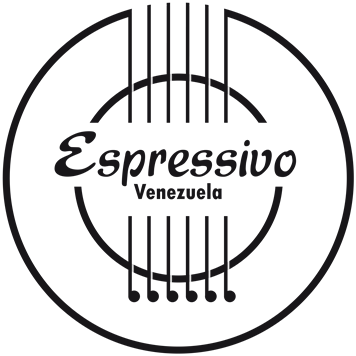
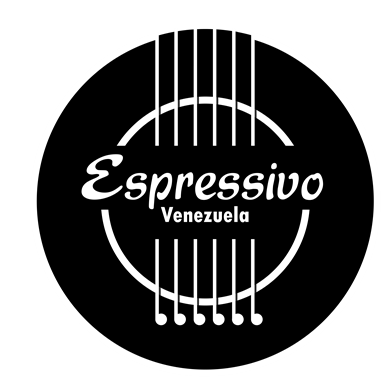
Unify event attendance and issue Espressivo QR codes

diff --git a/sistema-central/src/server.js b/sistema-central/src/server.js
@@ -530,7 +530,7 @@ app.post('/api/admin/orders/:id/reject', async (req, res) => {
 app.get('/api/admin/verify-qr/:rawToken', (req, res) => {
   try {
     let token = decodeURIComponent(req.params.rawToken || '').trim();
-    // If scanned QR is a full URL like http://.../verify/TK-001-..., extract the token part
+    // Extract the token from full QR links as well as from manually entered codes.
     if (token.includes('/verify/')) {
       token = token.split('/verify/').pop().split('?')[0].split('#')[0].trim();
     } else if (token.includes('verifyToken=')) {
@@ -570,7 +570,7 @@ app.get('/api/admin/verify-qr/:rawToken', (req, res) => {
 });
 
 /**
- * Record attendance for an activity using the full-event ticket.
+ * Record one arrival for the entire event.
  */
 app.post('/api/admin/verify-qr/:rawToken/checkin', (req, res) => {
   try {
@@ -579,40 +579,25 @@ app.post('/api/admin/verify-qr/:rawToken/checkin', (req, res) => {
       token = token.split('/verify/').pop().split('?')[0].split('#')[0].trim();
     }
 
-    const { stage } = req.body;
-    if (!['conference', 'concert'].includes(stage)) return res.status(400).json({ok:false, message:'Etapa invalida'}); // 'conference' or 'concert'
-    const order = db.prepare('SELECT * FROM orders WHERE verification_token = ? AND status = \'APPROVED\'').get(token);
-    if (!order) {
-      return res.status(404).json({ ok: false, message: 'Token QR no válido.' });
+    const updated = db.prepare(`
+      UPDATE orders SET checked_in_at = datetime('now')
+      WHERE verification_token = ? AND status = 'APPROVED'
+        AND checked_in_at IS NULL
+        AND COALESCE(checked_in_conference, 0) = 0
+        AND COALESCE(checked_in_concert, 0) = 0
+      RETURNING *
+    `).get(token);
+    if (!updated) {
+      const order = db.prepare("SELECT * FROM orders WHERE verification_token = ? AND status = 'APPROVED'").get(token);
+      if (!order) return res.status(404).json({ ok: false, message: 'Token QR no válido.' });
+      return res.status(409).json({
+        ok: false,
+        alreadyCheckedIn: true,
+        message: `La asistencia para la entrada #${order.ticket_number} ya está registrada.`,
+        order
+      });
     }
 
-    if (stage === 'concert') {
-      if (order.checked_in_concert) {
-        return res.status(409).json({
-          ok: false,
-          alreadyCheckedIn: true,
-          message: `La asistencia al concierto para la entrada #${order.ticket_number} ya se registró a las ${order.checked_in_concert_at}.`,
-          order
-        });
-      }
-      db.prepare(`
-        UPDATE orders SET checked_in_concert = 1, checked_in_concert_at = datetime('now') WHERE id = ?
-      `).run(order.id);
-    } else {
-      if (order.checked_in_conference) {
-        return res.status(409).json({
-          ok: false,
-          alreadyCheckedIn: true,
-          message: `La asistencia a conferencias para la entrada #${order.ticket_number} ya se registró a las ${order.checked_in_conference_at}.`,
-          order
-        });
-      }
-      db.prepare(`
-        UPDATE orders SET checked_in_conference = 1, checked_in_conference_at = datetime('now') WHERE id = ?
-      `).run(order.id);
-    }
-
-    const updated = db.prepare('SELECT * FROM orders WHERE id = ?').get(order.id);
     io.emit('admin:order_updated', { changed: true });
 
     return res.json({

diff --git a/sistema-central/public/admin/admin.js b/sistema-central/public/admin/admin.js
@@ -645,6 +645,7 @@ async function verifyQrToken(rawToken, { silent = false } = {}) {
     }
 
     const o = data.order;
+    const attendanceRecorded = o.checked_in_at || o.checked_in_conference || o.checked_in_concert;
     box.className = 'p-6 rounded-xl border-2 border-emerald-500 bg-emerald-50/60 text-slate-900 space-y-4 text-left';
     box.innerHTML = `
       <div class="flex items-center justify-between border-b border-emerald-200 pb-3">
@@ -679,23 +680,12 @@ async function verifyQrToken(rawToken, { silent = false } = {}) {
 
       <div class="p-3 rounded-xl border border-emerald-200 bg-white space-y-2">
         <div class="text-sm font-bold text-slate-900">Acceso a todo el evento</div>
-        <p class="text-xs text-slate-600">La misma entrada incluye las conferencias y el concierto. Puedes registrar la asistencia por actividad.</p>
-        <div class="grid grid-cols-1 sm:grid-cols-2 gap-3">
-          <div>
-            ${
-              o.checked_in_conference
-                ? `<div class="text-xs text-emerald-800 font-semibold mt-1">✓ Asistencia a conferencias registrada · ${escapeHtml(o.checked_in_conference_at)}</div>`
-                : `<button onclick="checkInAttendee('${o.verification_token}', 'conference')" class="mt-2 w-full py-1.5 bg-slate-900 hover:bg-slate-800 text-white rounded-lg text-xs font-bold">Registrar asistencia a conferencias</button>`
-            }
-          </div>
-          <div>
-            ${
-              o.checked_in_concert
-                ? `<div class="text-xs text-emerald-800 font-semibold mt-1">✓ Asistencia al concierto registrada · ${escapeHtml(o.checked_in_concert_at)}</div>`
-                : `<button onclick="checkInAttendee('${o.verification_token}', 'concert')" class="mt-2 w-full py-1.5 bg-indigo-600 hover:bg-indigo-700 text-white rounded-lg text-xs font-bold">Registrar asistencia al concierto</button>`
-            }
-          </div>
-        </div>
+        <p class="text-xs text-slate-600">La misma entrada incluye las conferencias y el concierto.</p>
+        ${
+          attendanceRecorded
+            ? `<div class="text-xs text-emerald-800 font-semibold mt-1">✓ Asistencia registrada ${escapeHtml(o.checked_in_at || '')}</div>`
+            : `<button type="button" data-token="${escapeHtml(o.verification_token)}" onclick="checkInAttendee(this)" class="mt-2 w-full py-1.5 bg-slate-900 hover:bg-slate-800 text-white rounded-lg text-xs font-bold">Registrar asistencia</button>`
+        }
       </div>
     `;
   } catch (err) {
@@ -704,12 +694,12 @@ async function verifyQrToken(rawToken, { silent = false } = {}) {
   }
 }
 
-async function checkInAttendee(token, stage) {
+async function checkInAttendee(button) {
+  const token = button.dataset.token;
+  button.disabled = true;
   try {
     const res = await fetch(`/api/admin/verify-qr/${encodeURIComponent(token)}/checkin`, {
-      method: 'POST',
-      headers: { 'Content-Type': 'application/json' },
-      body: JSON.stringify({ stage })
+      method: 'POST'
     });
     const data = await res.json();
     if (!data.ok) {
@@ -722,6 +712,8 @@ async function checkInAttendee(token, stage) {
     await fetchAdminOverview();
   } catch (err) {
     alert('No se pudo registrar la asistencia.');
+  } finally {
+    button.disabled = false;
   }
 }
 

diff --git a/sistema-central/src/db.js b/sistema-central/src/db.js
@@ -62,6 +62,7 @@ db.exec(`
     checked_in_conference_at TEXT,
     checked_in_concert INTEGER DEFAULT 0,
     checked_in_concert_at TEXT,
+    checked_in_at TEXT,
     admin_notes TEXT,
     created_at TEXT DEFAULT (datetime('now')),
     verified_at TEXT
@@ -104,7 +105,8 @@ for (const [column, type] of [
   ['payment_bank', 'TEXT'],
   ['report_kind', "TEXT NOT NULL DEFAULT 'CHECKOUT'"],
   ['requested_ticket', 'TEXT'],
-  ['buyer_comment', 'TEXT']
+  ['buyer_comment', 'TEXT'],
+  ['checked_in_at', 'TEXT']
 ]) {
   if (!db.prepare('PRAGMA table_info(orders)').all().some(c => c.name === column)) db.exec(`ALTER TABLE orders ADD COLUMN ${column} ${type}`);
 }
@@ -196,6 +198,17 @@ const insertSettingStmt = db.prepare(`
 
 db.exec('BEGIN IMMEDIATE TRANSACTION');
 try {
+  // Preserve the first recorded arrival for tickets scanned before attendance was unified.
+  db.exec(`
+    UPDATE orders
+    SET checked_in_at = COALESCE(
+      MIN(checked_in_conference_at, checked_in_concert_at),
+      checked_in_conference_at,
+      checked_in_concert_at
+    )
+    WHERE checked_in_at IS NULL
+      AND (checked_in_conference_at IS NOT NULL OR checked_in_concert_at IS NOT NULL)
+  `);
   for (const [k, v] of Object.entries(defaultSettings)) {
     insertSettingStmt.run(k, String(v));
   }
@@ -676,7 +689,7 @@ function approveOrderAtomic(orderId, adminNotes = '', assignTicket = null) {
       .slice(0, 12)
       .toUpperCase();
 
-    const verificationToken = `TK-${order.ticket_number}-${rawUuid.split('-')[0]}-${signature}`;
+    const verificationToken = `Espressivo-${order.ticket_number}-${rawUuid.split('-')[0]}-${signature}`;
 
     db.prepare(`
       UPDATE orders

diff --git a/sistema-central/public/admin/index.html b/sistema-central/public/admin/index.html
@@ -4,7 +4,7 @@
   <meta charset="UTF-8" />
   <meta name="viewport" content="width=device-width, initial-scale=1.0" />
   <title>Dashboard Administrador | Sistema Central de Entradas (001-250)</title>
-  <link rel="icon" type="image/png" href="/admin/brands/espressivo-venezuela.png?v=2" />
+  <link rel="icon" type="image/png" href="/admin/brands/espressivo-venezuela.png?v=3" />
   <link rel="stylesheet" href="/admin/utilities.css" />
   <link rel="stylesheet" href="/admin/admin.css" />
   <link rel="stylesheet" href="/admin/blog.css" />
@@ -16,7 +16,7 @@
 
   <aside class="sidebar" aria-label="Navegación principal">
     <a class="admin-brand" href="/admin/">
-      <img class="brand-mark" src="/admin/brands/espressivo-venezuela.png?v=2" width="48" height="48" alt="Espressivo Venezuela" />
+      <img class="brand-mark" src="/admin/brands/espressivo-venezuela.png?v=3" width="48" height="48" alt="Espressivo Venezuela" />
       <span>Entradas<small>Administración del evento</small></span>
     </a>
     <nav class="admin-nav" aria-label="Secciones del dashboard">
@@ -210,7 +210,7 @@
             <input
               id="qr-token-input" aria-label="Token o enlace de la entrada"
               type="text"
-              placeholder="Ej: TK-001-XXXX-XXXX o pega el enlace del QR..."
+              placeholder="Ej: Espressivo-001-XXXX-XXXX o pega el enlace del QR"
               class="flex-1 border border-slate-300 rounded-lg px-3 py-2 text-sm font-mono"
             />
             <button

diff --git a/sistema-central/public/login.html b/sistema-central/public/login.html
@@ -5,7 +5,7 @@
   <meta name="viewport" content="width=device-width, initial-scale=1.0" />
   <meta name="robots" content="noindex" />
   <title>Iniciar sesión · Panel de entradas</title>
-  <link rel="icon" type="image/png" href="/admin/brands/espressivo-venezuela.png?v=2" />
+  <link rel="icon" type="image/png" href="/admin/brands/espressivo-venezuela.png?v=3" />
   <style>
     :root {
       --ink: #1d232c;
@@ -45,7 +45,6 @@
       display: block;
       flex-shrink: 0;
       object-fit: contain;
-      mix-blend-mode: multiply;
     }
     .brand strong {
       display: block;
@@ -191,7 +190,7 @@
 <body>
   <main class="login">
     <div class="brand">
-      <img class="mark" src="/admin/brands/espressivo-venezuela.png?v=2" width="52" height="52" alt="Espressivo Venezuela" />
+      <img class="mark" src="/admin/brands/espressivo-venezuela.png?v=3" width="52" height="52" alt="Espressivo Venezuela" />
       <div><strong>Entradas</strong><span>Administración del evento</span></div>
     </div>
 

diff --git a/sistema-central/src/pdfGenerator.js b/sistema-central/src/pdfGenerator.js
@@ -191,7 +191,7 @@ async function generateDemoTicketPdf(source, eventConfig) {
     buyer_cedula: 'V-00000000',
     buyer_phone: '0000-0000000',
     buyer_email: 'andrea@example.invalid',
-    verification_token: 'DEMO-001'
+    verification_token: 'Espressivo-001-DEMO'
   };
   const qrBuffer = await QRCode.toBuffer('DEMO-ENTRADA-SIN-VALIDEZ', qrOptions);
   const doc = createTicketDocument(sample, eventConfig, qrBuffer, true);

diff --git a/sistema-central/public/admin/admin.css b/sistema-central/public/admin/admin.css
@@ -98,7 +98,6 @@ a {
   height: 48px;
   flex-shrink: 0;
   object-fit: contain;
-  mix-blend-mode: multiply;
 }
 .admin-brand small {
   display: block;

diff --git a/README.md b/README.md
@@ -8,7 +8,7 @@ Un único repositorio para tres aplicaciones independientes que comparten invent
 | `pagina-web-1/` | Iluminando Caminos: portada y compra | 3001 |
 | `pagina-web-2/` | Hablemos de Marketing: portada y compra | 3002 |
 
-Las dos páginas consultan exclusivamente el sistema central. Cada reserva se protege con una transacción SQLite y dura 180 segundos. La orden conserva el origen de la web y la cotización de su reserva; aprobar el pago genera la entrada PDF y el token QR. Los ingresos a conferencias y concierto se registran por separado.
+Las dos páginas consultan exclusivamente el sistema central. Cada reserva se protege con una transacción SQLite y dura 180 segundos. La orden conserva el origen de la web y la cotización de su reserva. Aprobar el pago genera la entrada PDF y el token QR. En puerta se registra una sola asistencia para todo el evento.
 
 ## Desarrollo local
 
